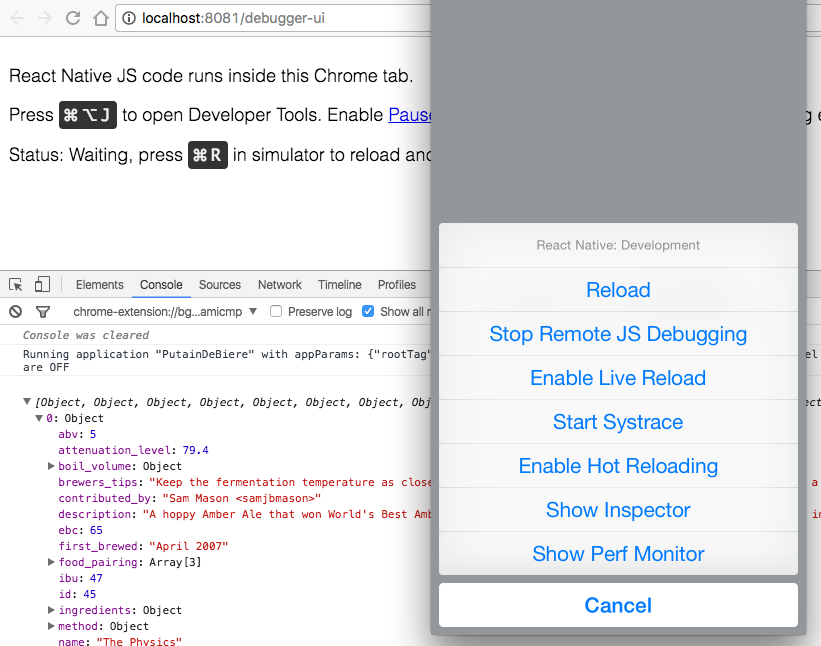
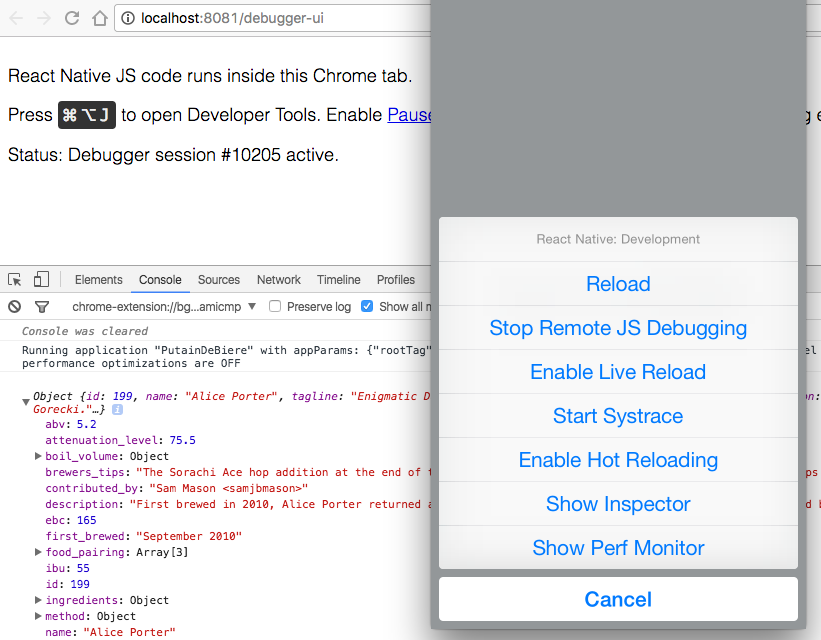
Switch to a "Get random beer" app instead of a boring list

diff --git a/content/fr/articles/js/react/react-native-introduction/index.md b/content/fr/articles/js/react/react-native-introduction/index.md
@@ -91,40 +91,53 @@ AppRegistry.registerComponent('PutainDeBiere', () => App);
 
 Afin de requêter notre API, React Native nous offre plusieurs plusieurs solutions: `fetch()` ou `XMLHttpRequest`. Tenez vous en **uniquement** à l'utilisation de la première, la deuxième n'étant présente que pour assurer une compatibilité avec des librairies tierces.
 
-Ainsi, nous allons modifier notre composant `<App>` afin de faire une requête simple de toutes les bières avant le montage de celui-ci.
-
 */!\ Notre clé API doit être encodé en base64. La function `btoa()` n'étant pas disponible en React Native, il est nécessaire d'installer une dépendance.*
 
 ```bash
 npm install --save base-64
 ```
 
+Histoire de séparer notre logique API de nos composants React, nous allons créer un fichier nommé `punkapi.js` à la racine de notre projet.
+
 ```javascript
-import base64 from 'base-64'; // ajoutez l'import de la dépendance
+import base64 from 'base-64' // importez la dépendance tout juste installée
+
+const rootEndpoint = 'https://punkapi.com/api/v1'
+const username = 'xxxxxxxxxxxxxxxxxxxxxxxxxxxxxxxx' // votre clé API
+const password = '' // la punk API n'utilise aucun mot de passe
+const authBase64 = base64.encode(`${username}:${password}`)
+
+const headers = {
+  'Content-Type': 'application/json',
+  'Accept': 'application/json',
+  'Authorization': `Basic ${authBase64}` // HTTP basic auth
+}
+
+// retourne une recette de bière au hasard (Promise)
+export const getRandomBrewdog = () =>
+  fetch(`${rootEndpoint}/beers/random`, { headers })
+    .then(response => response.json()) // on parse la réponse en JSON
+```
+
+Nous allons maintenant modifier notre composant `<App>` afin de faire une requête simple d'une bière au hasard juste avant le montage de celui-ci.
+
+```javascript
+import { getRandomBrewdog } from './punkapi'
 
 class App extends Component {
   componentWillMount() {
-    const username = 'xxxxxxxxxxxxxxxxxxxxxxxxxxxxxxxx' // changez pour votre clé API
-    const password = '' // la punk API n'utilise aucun mot de passe
-    const auth = base64.encode(`${username}:${password}`)
-    
-    const headers = {
-      'Content-Type': 'application/json',
-      'Accept': 'application/json',
-      'Authorization': `Basic ${auth}`
-    }
-
-    fetch('https://punkapi.com/api/v1/beers', { headers })
-      .then(response => response.json())
+    getRandomBrewdog()
       .then(json => console.log(json))
-      .error(error => console.error(error))
+      .catch(error => console.error(error))
   }
 
   …
 }
 ```
 
-Vous apercevez la présence d'un appel à `console.log()`. Pour y accéder, rien de plus simple: pressez `Command⌘ + D` au sein de l'émulateur iOS, ou appuyez sur le bouton `menu` de l'émulateur android. Celui-ci contient de multiples choses que je vous laisse expérimenter par la suite; ce qui nous intéresse ici c'est le bouton `Debug JS Remotely`, qui va ouvrir un nouvel onglet dans Chrome ou sera exécuté notre code JS. Il devient donc possible d'ouvrir les Chrome Devtools (dont la console) afin de débuguer notre app.
+Vous apercevez la présence d'un appel à `console.log()`. Pour y accéder, rien de plus simple: pressez `Command⌘ + D` au sein de l'émulateur iOS, ou appuyez sur le bouton `Menu` de l'émulateur android. Celui-ci contient de multiples choses que je vous laisse expérimenter par la suite; ce qui nous intéresse ici c'est le bouton `Debug JS Remotely`, qui va ouvrir un nouvel onglet dans Chrome ou sera exécuté notre code JS.
+
+Il devient donc possible d'ouvrir les Chrome Devtools (dont la console) afin de débuguer notre app.
 
 <figure>
   <img src="devmenu.png" alt="devmenu + chrome devtools" />
